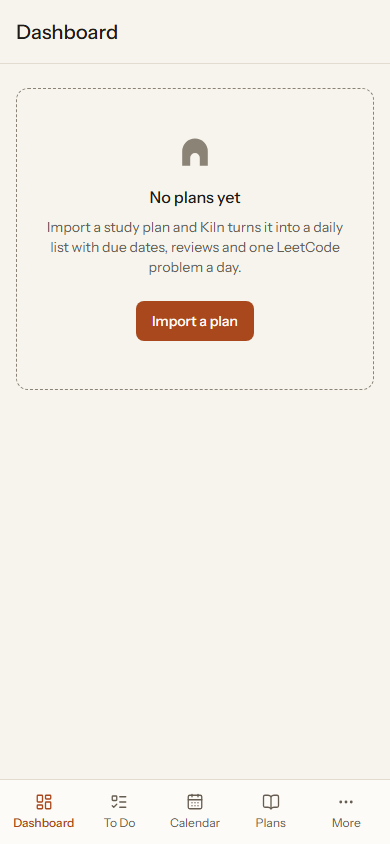
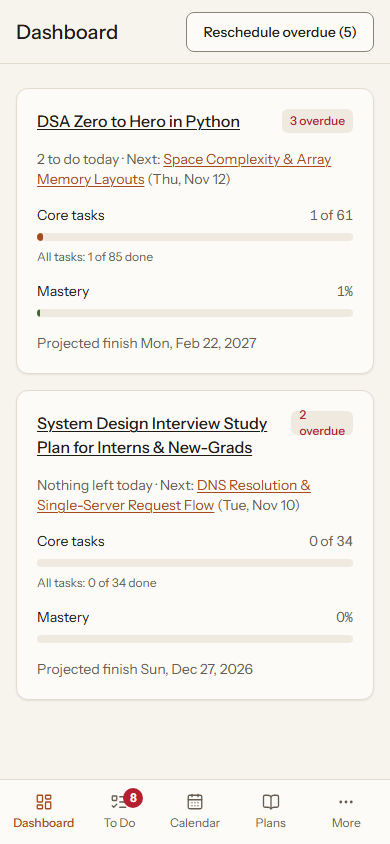
Refresh the design screenshots

diff --git a/docs/design/README.md b/docs/design/README.md
@@ -14,7 +14,7 @@ The layout follows a familiar course-site pattern: left nav rail with a red coun
 | To Do | [light](todo-desktop-light.png), [dark](todo-desktop-dark.png) | [light](todo-phone-light.png), [dark](todo-phone-dark.png) |
 | Design system (full page) | [light](design-desktop-light.png), [dark](design-desktop-dark.png) | [light](design-phone-light.png), [dark](design-phone-dark.png) |
 
-The /design page shows every token and component twice, light and dark side by side, whatever the system theme. Regenerate with `SCREENSHOTS=1 npx playwright test screenshots`.
+The /design page shows every token and component twice, light and dark side by side, whatever the system theme. Dashboard and To Do are shot with the sample plans three days in (one lesson done, the rest overdue); the design page has no data. Regenerate with `SCREENSHOTS=1 npx playwright test screenshots`.
 
 ## Tokens
 
@@ -57,7 +57,7 @@ All in `src/ui/`, built on react-aria-components:
 
 ## What to look at
 
-- The To Do badge: the shell shows none until stage 7 wires the real count; /design shows it at 1, 3, 42 and 99+.
+- The To Do badge: live count of open work today, overdue work and reviews due; /design shows it at 1, 3, 42 and 99+.
 - Whether the terracotta accent and the crimson overdue red read as different things.
 - Dark mode: charcoal surfaces and the ember accent on the primary button.
 - The phone tab bar: Dashboard, To Do, Calendar, Plans, More (Brush up, Import, Settings).
@@ -71,3 +71,13 @@ Each route is a lazily loaded file in `src/app/pages/` that renders `<Page title
 ## Accessibility baseline
 
 Skip link, `nav` and `main` landmarks, focus moves to the page heading after each in-app navigation (not on first load), `lang="en"`, a document title per route (`To Do · Kiln`), visible focus rings in the accent, keyboard navigation through the rail (Tab) and tabs (arrow keys), reduced motion. Playwright runs axe on /, /todo and /design in light and dark and fails on any serious or critical violation.
+
+## Screens (stage 7)
+
+- To Do (`/todo`): five ranges as a segmented control; overdue pinned on top in the danger color; day headers (Today, Tomorrow, weekday); each row has a checkbox, title, plan, type, minutes, a LeetCode badge and a Solve in Python link. Done rows stay in place in the muted color and still open. Checking an item that gets a review card opens the rating sheet (Again, Hard, Good, Easy; keys 1 to 4), others complete at once; an Undo toast follows.
+- Task (`/task/:taskId`): breadcrumb, due date, time, priority, type, description, objectives, key concepts, tradeoffs, check-yourself questions, resources, practice link, dependencies; actions Mark done / Rate again, Skip, Pin to date, Reschedule.
+- Dashboard: one card per plan; Reschedule overdue in the top bar when anything is overdue.
+- Plans and plan page: collapsible modules, backlog with Schedule again, plan settings (weight, skip optional work, deadline), delete with a confirm sheet.
+- Brush up: weakest first with a recall bar and Review now (opens the rating sheet), then mastery by topic.
+
+Sample data: `npm run dev` shows a Load sample plans button on the empty dashboard, and `?seed=1` or `window.kilnSeed()` loads the same plans. The e2e build (`npm run build:e2e`, `vite build --mode e2e`) has the hook too; the production build does not.
